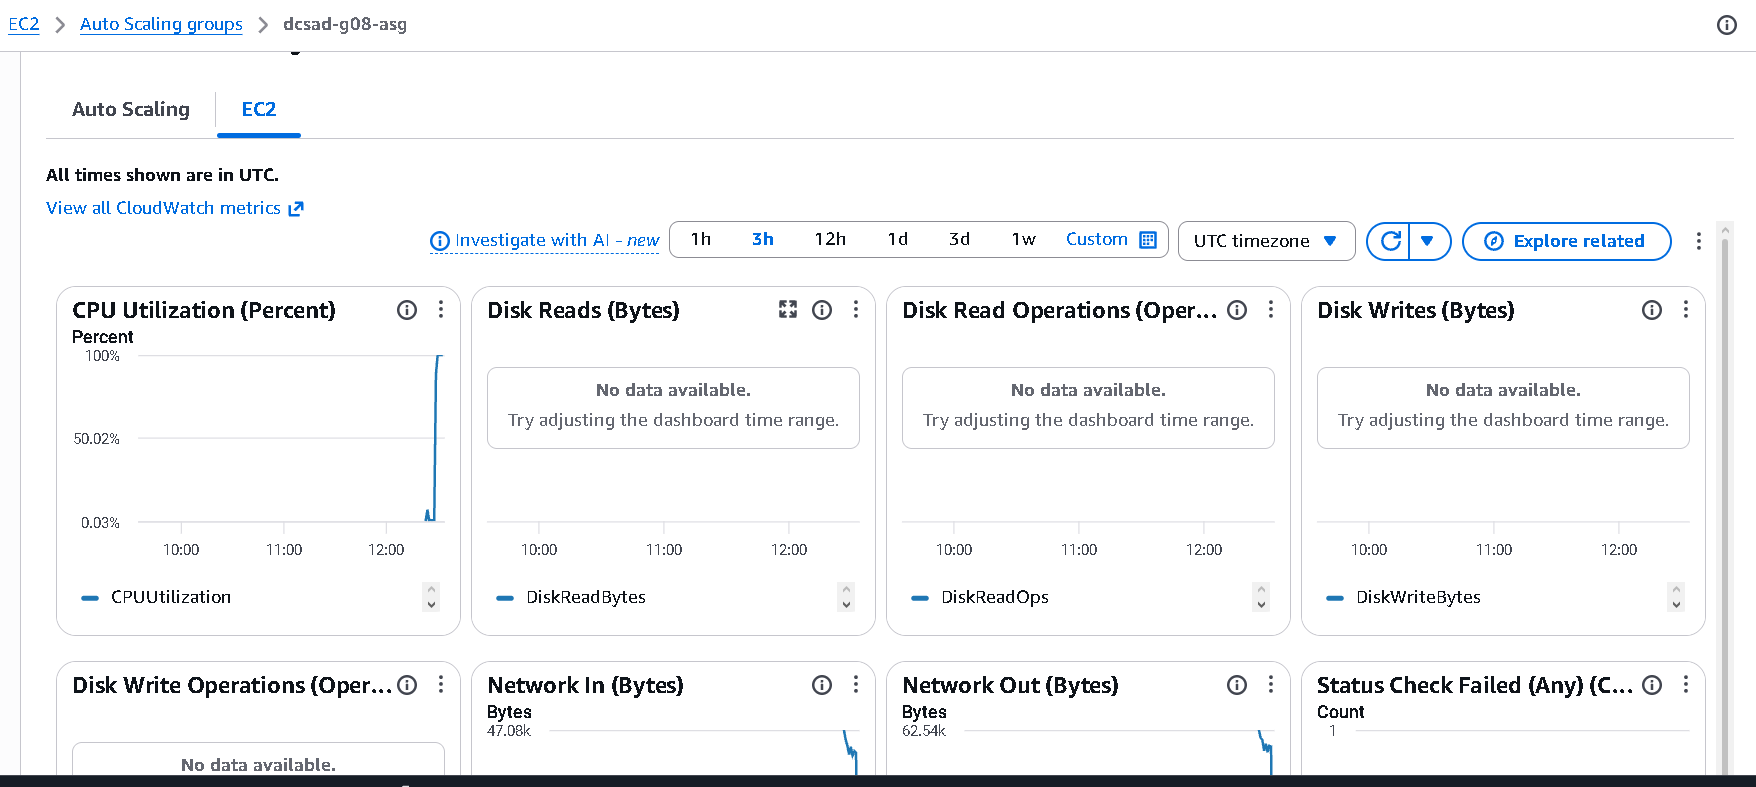
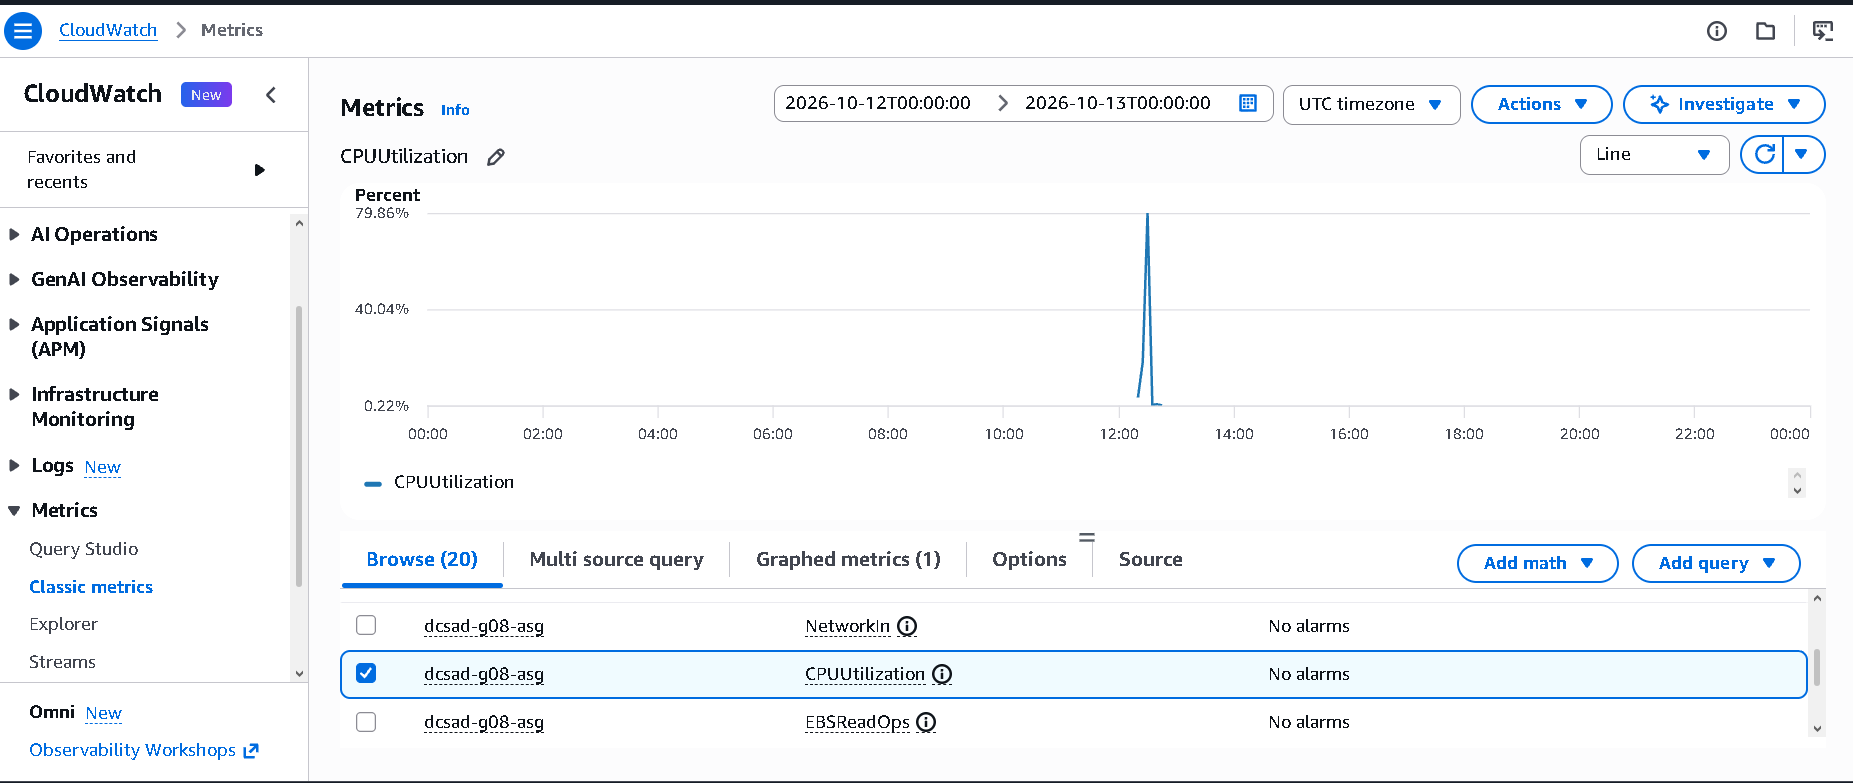
fixed screenshots

diff --git a/activities/lab-2/dcsad-g08/submission.md b/activities/lab-2/dcsad-g08/submission.md
@@ -10,8 +10,8 @@
 - Availability Zone: ap-southeast-1b
 
 ## Proof (Screenshots)
-1. **Activity History:** Add a screenshot showing the Auto Scaling group's Activity history when the second instance launched.
-   
+1. **Activity History:** Add a screenshot showing the Auto Scaling group's Activity history when the second instance launched. Captured via CloudTrail because the ASG was deleted during Step 7 clean-up
+
    ![Activity History](activity_history.png)
 
 2. **CloudWatch Alarm:** Add a screenshot of the target tracking alarm in the "In alarm" state.
